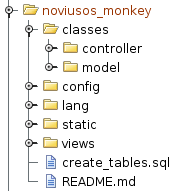
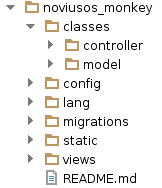
file organisation

Changed region(s): [[0.1235, 0.0, 0.9568, 0.984], [0.0309, 0.0, 0.0926, 1.0]]

diff --git a/source/understand/organization_directories.rst b/source/understand/organization_directories.rst
@@ -77,7 +77,7 @@ Tout Novius OS reprend les principes de segmentation issus de l’architecture M
 	:alt: Organisation des fichiers
 	:align: center
 
-On distingue 5 dossiers principaux :
+On distingue 6 dossiers principaux :
 
 :file:`classes`
 	Ce dossier regroupe la partie logique, c'est-à-dire les classes PHP qui définissent et manipulent les données.
@@ -92,6 +92,9 @@ On distingue 5 dossiers principaux :
 
 :file:`lang`
 	Ce dossier contient les fichiers de traduction, organisés en sous-dossiers par langue.
+
+:file:`migrations`
+	Ce dossier contient les fichiers de migration.
 
 :file:`static`
 	Ce dossier contient l’ensemble des scripts (JS et CSS) et ressources publiques (comme les images) chargées en front office.
